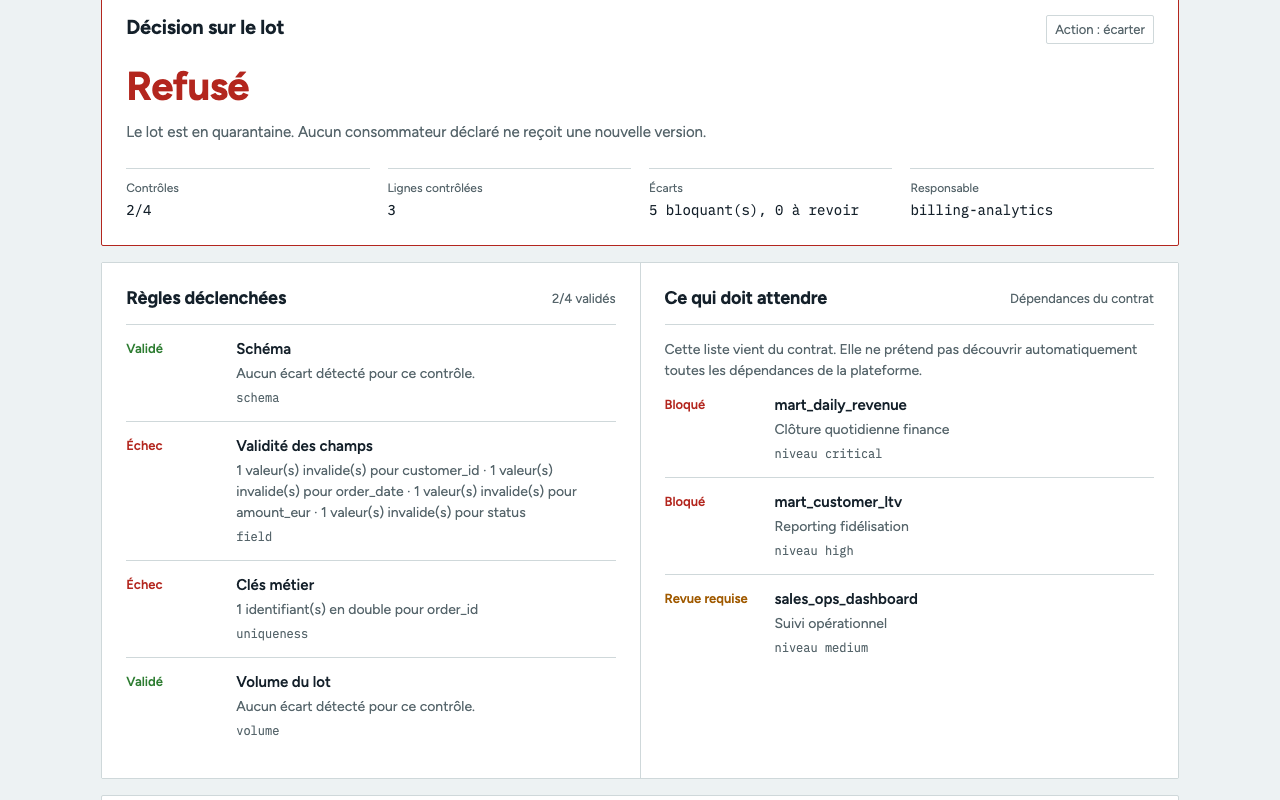
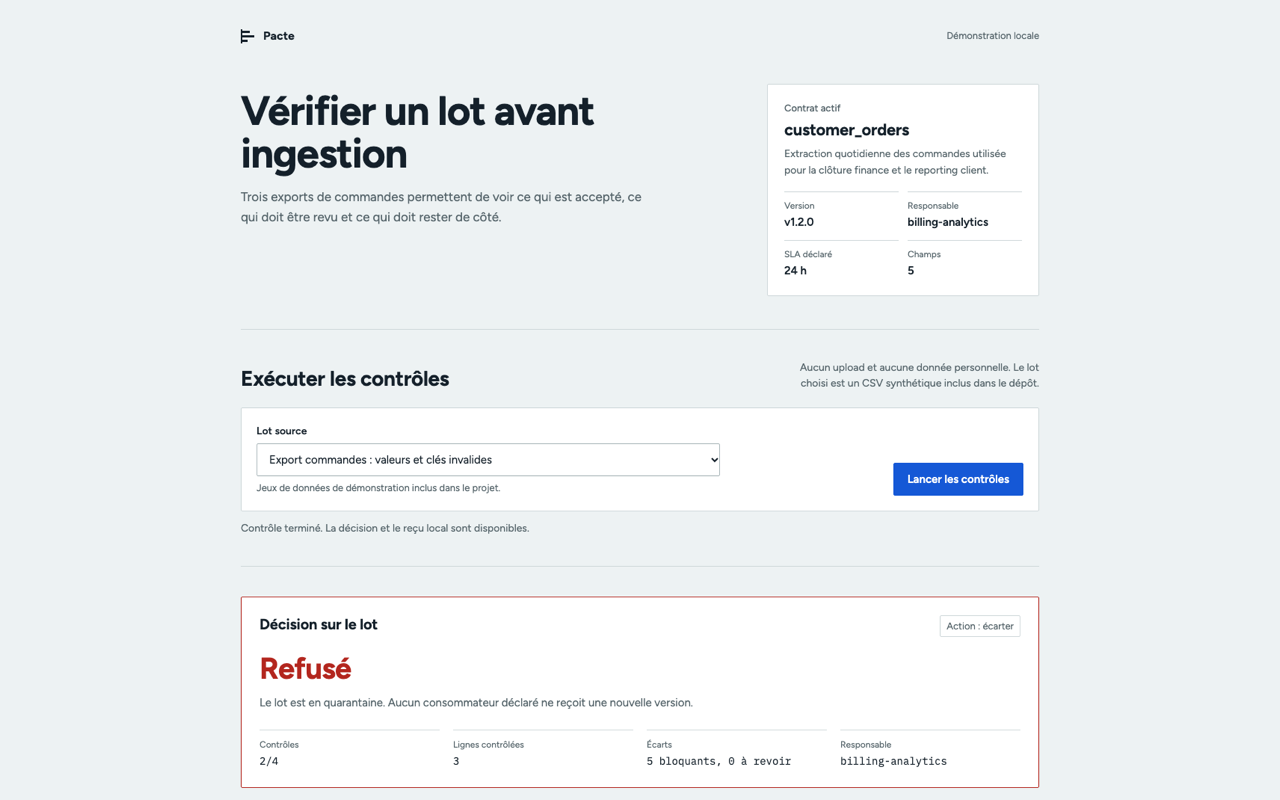
Placer le contrôle avant le tableau des règles et refaire la capture
La carte « Contrat actif » résume déjà le contrat en haut de page ; le
tableau détaillé passe sous le résultat, ce qui met le choix du lot et la
décision juste après le titre. La capture du README montre désormais le titre
et la décision « Refusé » dans un même cadre 16:10.

diff --git a/web/index.html b/web/index.html
@@ -43,19 +43,6 @@
         </div>
       </header>
 
-      <section class="contract-brief" aria-labelledby="contract-brief-title">
-        <div class="section-heading">
-          <div>
-            <h2 id="contract-brief-title">Ce que l’export doit respecter</h2>
-          </div>
-          <p id="contractVersion" class="version-chip">Version en chargement</p>
-        </div>
-        <div id="contractControls" class="contract-table-wrap" aria-live="polite">
-          <p class="loading-copy">Chargement des contrôles du contrat...</p>
-        </div>
-        <p id="freshnessNote" class="contract-note">La fraîcheur est déclarée dans le contrat, mais les CSV fournis ne contiennent pas d’horodatage de livraison.</p>
-      </section>
-
       <section class="workbench" id="workbench" aria-labelledby="run-title">
         <div class="section-heading workbench-heading">
           <div>
@@ -122,6 +109,19 @@
           </div>
           <span id="receiptId" class="receipt-id">En attente</span>
         </section>
+      </section>
+
+      <section class="contract-brief" aria-labelledby="contract-brief-title">
+        <div class="section-heading">
+          <div>
+            <h2 id="contract-brief-title">Ce que l’export doit respecter</h2>
+          </div>
+          <p id="contractVersion" class="version-chip">Version en chargement</p>
+        </div>
+        <div id="contractControls" class="contract-table-wrap" aria-live="polite">
+          <p class="loading-copy">Chargement des contrôles du contrat...</p>
+        </div>
+        <p id="freshnessNote" class="contract-note">La fraîcheur est déclarée dans le contrat, mais les CSV fournis ne contiennent pas d’horodatage de livraison.</p>
       </section>
 
       <section class="audit" aria-labelledby="audit-title">

diff --git a/web/style.css b/web/style.css
@@ -70,7 +70,9 @@ main { max-width: 1180px; margin: 0 auto; padding: 20px clamp(16px, 4vw, 56px) 5
 .contract-facts dt { color: var(--muted); font-size: 0.75rem; }
 .contract-facts dd { margin: 2px 0 0; color: var(--ink); font-size: 0.9375rem; font-weight: 600; }
 
-.contract-brief, .workbench, .audit { padding: 40px 0; border-bottom: 1px solid var(--line); }
+.contract-brief, .workbench, .audit { padding: 40px 0; }
+.workbench { border-bottom: 1px solid var(--line); }
+.result:not([hidden]) + .contract-brief { margin-top: 40px; border-top: 1px solid var(--line); }
 .section-heading { display: flex; justify-content: space-between; gap: 24px; align-items: flex-end; }
 .section-heading h2 { margin: 0; font-size: clamp(1.4rem, 2.4vw, 1.75rem); font-weight: 700; letter-spacing: -0.01em; line-height: 1.2; }
 .section-heading .section-label + h2 { margin-top: 4px; }

diff --git a/README.md b/README.md
@@ -8,7 +8,7 @@ Démo en ligne : https://pacte-ikel.onrender.com (instance gratuite Render, le p
 
 ![Résultat du contrôle de l’export aux valeurs invalides](docs/demo.png)
 
-La capture montre l’export aux valeurs invalides : le lot est refusé, deux contrôles sur quatre échouent et deux des trois consommateurs déclarés sont bloqués.
+La capture montre le haut de la page après le contrôle de l’export aux valeurs invalides : le lot est refusé, deux contrôles sur quatre seulement sont validés et cinq écarts sont bloquants.
 
 ## Les scénarios fournis
 
